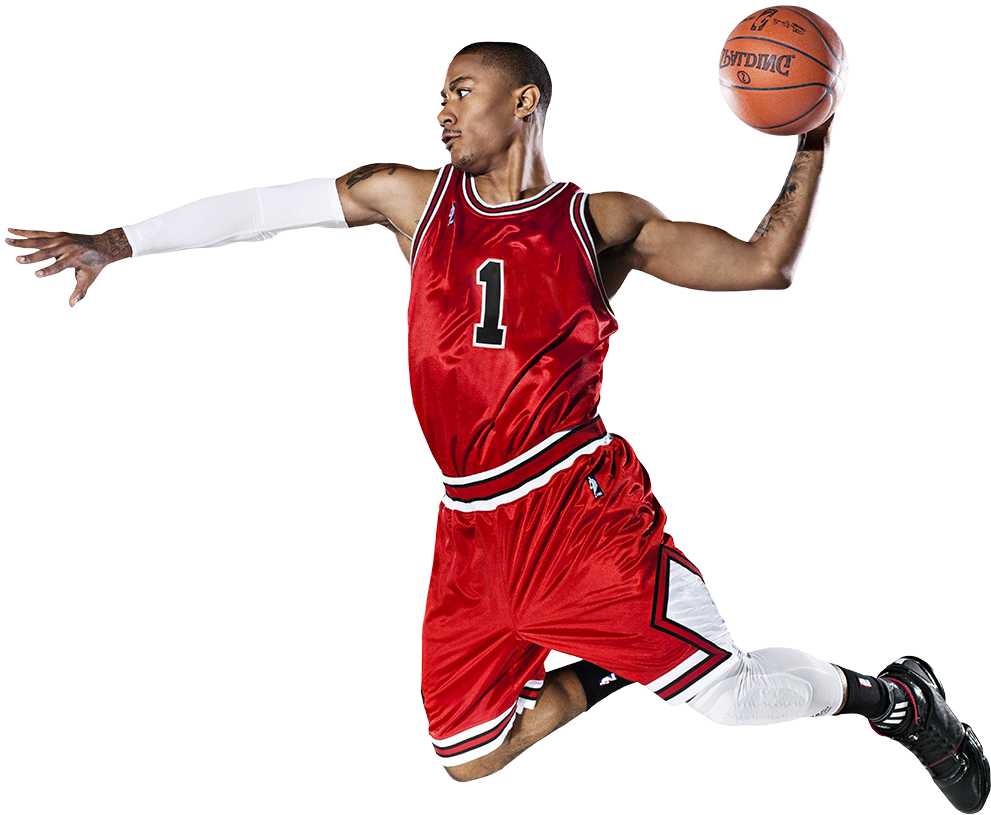
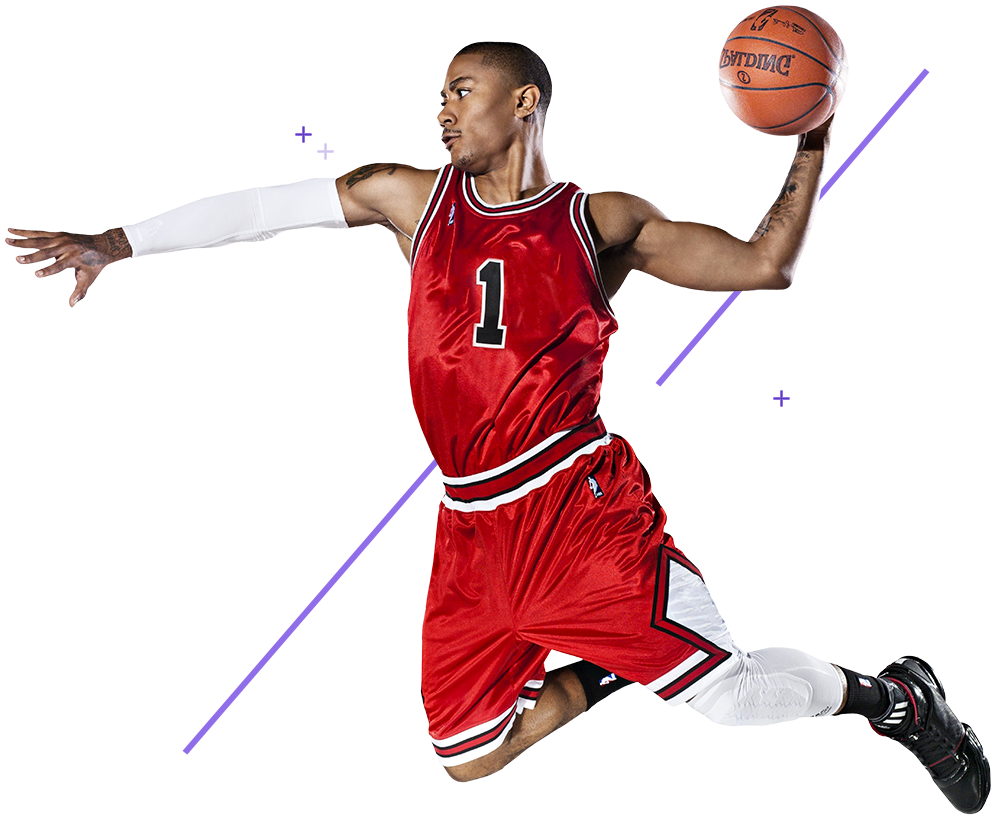
Декоративное оформление
Псевдо-классами добавлены декоративные изображения
Мелкие исправления

diff --git a/css/style.css b/css/style.css
@@ -34,6 +34,8 @@ h2 {
 }
 
 header {
+  padding-right: 75px;
+  padding-left: 75px;
   margin-bottom: 100px;
   height: 960px;
   color: #ffffff;
@@ -43,6 +45,15 @@ header {
 .logo {
   display: inline-block;
   vertical-align: top;
+  margin-top: 54px;
+  margin-bottom: 296px;
+}
+
+.for {
+  float: right;
+  margin-top: 54px;
+  font-size: 14px;
+  text-transform: uppercase;
 }
 
 header img {
@@ -52,10 +63,14 @@ header img {
 header .caption {
   display: block;
   font-size: 90px;
-  line-height: 100px;
+  line-height: 90px;
   font-weight: 700;
-  letter-spacing: 0.05em;
   text-transform: uppercase;
+}
+
+.cap-2 {
+  margin-bottom: 3px;
+  text-align: right;
 }
 
 .download-btn {
@@ -70,18 +85,19 @@ footer ul {
   list-style: none;
 }
 
-.sports {
+header .sports {
+  margin-bottom: 180px;
   text-align: right;
 }
 
 .sports li {
-  margin-right: 45px;
+  margin-right: 38px;
   display: inline-block;
   vertical-align: top;
 }
 
 .sports li:last-child {
-  margin-right: 120px;
+  margin-right: 0;
 }
 
 .sports a {
@@ -91,29 +107,28 @@ footer ul {
   text-decoration: none;
 }
 
-.for {
-  float: right;
-}
-
 .app-store,
 .google-play {
+  position: relative;
   display: inline-block;
   vertical-align: top;
   padding-top: 25px;
   padding-bottom: 25px;
-  width: 310px;
+  width: 311px;
   height: 77px;
   font-size: 14px;
+  line-height: 14px;
   box-sizing: border-box;
   color: #ffffff;
   background-color: #5e42b0;
   text-align: center;
   text-transform: uppercase;
+  text-decoration: none;
   border-radius: 50px;
 }
 
 .app-store {
-  margin-right: 52px;
+  margin-right: 50px;
 }
 
 .app-store span,
@@ -122,12 +137,33 @@ footer ul {
   font-weight: 700;
 }
 
+.app-store::before {
+  position: absolute;
+  content: "";
+  top: 15px;
+  left: 30px;
+  width: 33px;
+  height: 37px;
+  background: url("../img/icon-apple.png") no-repeat;
+}
+
+.google-play::before {
+  position: absolute;
+  content: "";
+  top: 15px;
+  left: 50px;
+  width: 36px;
+  height: 39px;
+  background: url("../img/icon-googleplay.png") no-repeat;
+}
+
 .progress h1 {
   margin-bottom: 96px;
 }
 
 .progress h2 {
   margin-bottom: 30px;
+  color: #c1c1c1;
 }
 
 .progress p {
@@ -135,8 +171,19 @@ footer ul {
 }
 
 .athlets {
+  position: relative;
   margin-bottom: 112px;
   box-sizing: border-box;
+}
+
+.athlets::before {
+  position: absolute;
+  content: "";
+  top: -28px;
+  left: 206px;
+  width: 696px;
+  height: 950px;
+  background: url("../img/footballer.png") no-repeat;
 }
 
 .athlets div,
@@ -160,7 +207,22 @@ footer ul {
   padding-top: 90px;
   padding-right: 200px;
   padding-bottom: 100px;
+  color: #ffffff;
   background-color: #5e42b0;
+}
+
+.players {
+  position: relative;
+}
+
+.players::before {
+  position: absolute;
+  content: "";
+  top: -140px;
+  right: 4px;
+  width: 991px;
+  height: 815px;
+  background: url("../img/basketballpl.png") no-repeat;
 }
 
 .players h1 {
@@ -197,6 +259,7 @@ footer ul {
 
 .box-features {
   margin-top: 260px;
+  margin-left: 130px;
 }
 
 .active h1 {
@@ -212,7 +275,6 @@ footer ul {
 }
 
 .contact p {
-  margin-bottom: 269px;
   width: 360px;
 }
 
@@ -224,20 +286,60 @@ footer ul {
   width: 838px;
 }
 
+.contact .box-features {
+  margin-left: 75px;
+  margin-bottom: 251px;
+}
+
+.work h1 {
+  margin-bottom: 112px;
+}
+
 .work p {
   width: 470px;
 }
 
 footer {
   padding-top: 248px;
-  height: 960px;
   color: #ffffff;
-  background: url("../img/stadium.jpg")
+  height: 959px;
+  background: url("../img/stadium.jpg") no-repeat;
+  box-sizing: border-box;
+}
+
+footer .logo {
+  margin: 0;
+  margin-left: 50px;
 }
 
 footer .download {
+  position: relative;
   margin: 0 auto;
-  width: 800px;
+  margin-bottom: 272px;
+  padding-left: 167px;
+  width: 920px;
+}
+
+.download::before {
+  position: absolute;
+  content: "";
+  top: -15px;
+  left: 20px;
+  width: 130px;
+  height: 137px;
+  background: url("../img/logo-app.png") no-repeat;
+}
+
+.download h1 {
+  margin-bottom: 14px;
+}
+
+.download h2 {
+  margin-bottom: 165px;
+}
+
+footer .download-btn {
+  margin-left: 35px;
 }
 
 footer .social {
@@ -247,9 +349,17 @@ footer .social {
 
 footer .contacts {
   float: right;
+  margin-right: 60px;
 }
 
 .contacts li {
   display: inline-block;
   vertical-align: top;
+}
+
+.contacts a {
+  font-size: 20px;
+  line-height: 20px;
+  color: #ffffff;
+  text-decoration: none;
 }
